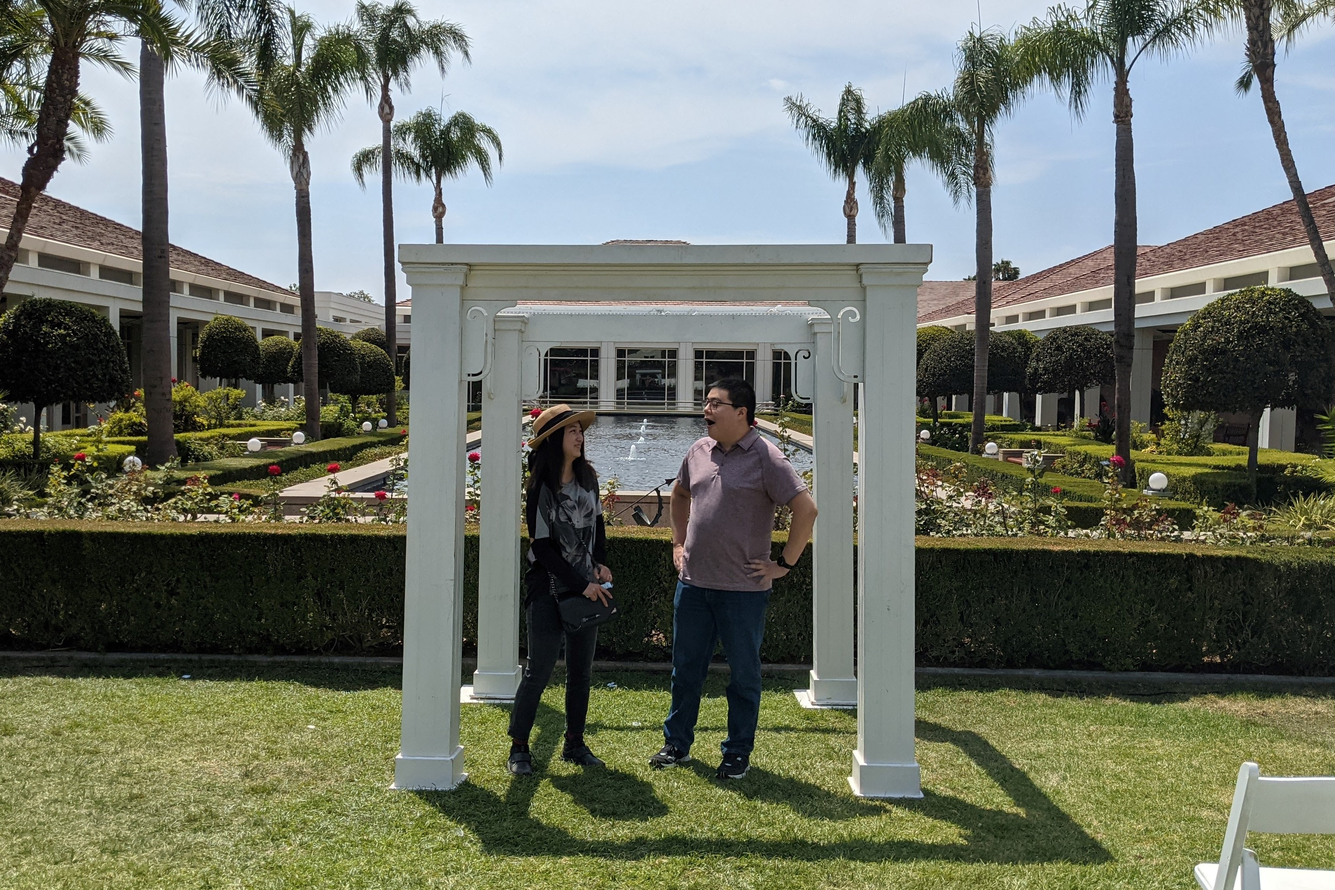
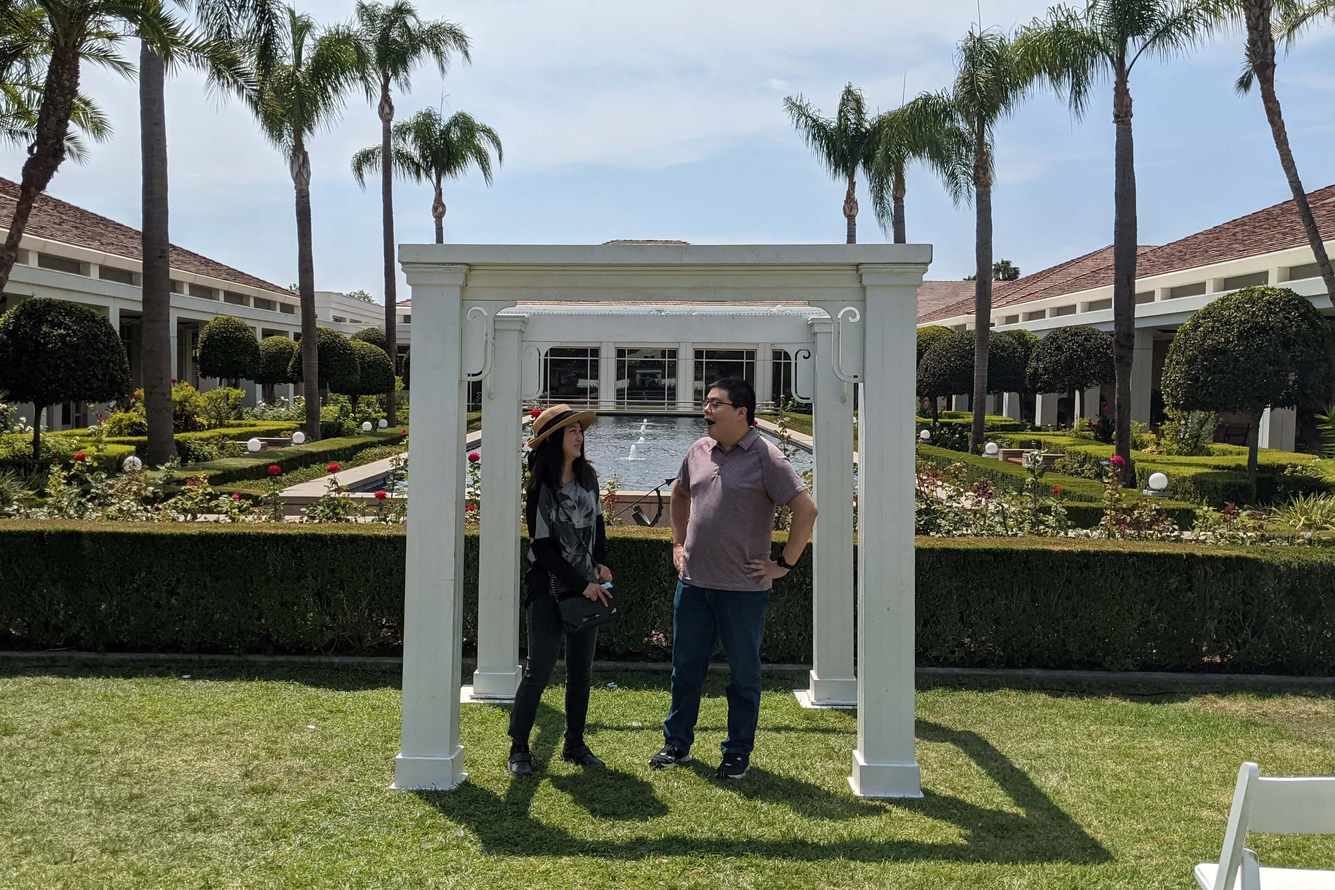
fix parallax, use smaller photo

diff --git a/src/app/schedule/schedule.component.html b/src/app/schedule/schedule.component.html
@@ -3,9 +3,7 @@
     <h1 class='time' i18n>{{'SCHEDULE.TIME' | translate}}</h1>
     <h1 class='place' i18n>{{'SCHEDULE.VENUE' | translate}}</h1>
     <h1 class='place' i18n>{{'SCHEDULE.ADDRESS' | translate}}</h1>
-    <h1 class='place' i18n>{{'SCHEDULE.CITY' | translate}}</h1>
-    <h1 class='place' i18n>{{'SCHEDULE.STATE' | translate}}</h1>
-    <h1 class='place' i18n>{{'SCHEDULE.ZIP' | translate}}</h1>
+    <h1 class='place' i18n>{{'SCHEDULE.CITY' | translate}} | {{'SCHEDULE.STATE' | translate}} | {{'SCHEDULE.ZIP' | translate}}</h1>
     <count-down [theDate]="date"></count-down>
     <div class='schedule-botton-padding'></div>
 </div>

diff --git a/src/app/home/home.component.css b/src/app/home/home.component.css
@@ -12,7 +12,15 @@ img {
 
 .parallax {
     /* The image used */
-    background-image: url("./../../assets/0N4A7715-Edit.png");
+    background-image: url("./../../assets/0N4A7715-Edit.jpg");
+    /* Set a specific height */
+    min-height: 100vh; 
+
+    /* Create the parallax scrolling effect */
+    background-attachment: fixed;
+    background-position: center;
+    background-repeat: no-repeat;
+    background-size: cover;
   }
 
 .sticky {
@@ -28,6 +36,7 @@ img {
     background-repeat: no-repeat;
     background-size: cover;
     top: 0;
+    bottom: 0;
     z-index: 0;
 }
 

diff --git a/src/app/home/home.component.html b/src/app/home/home.component.html
@@ -8,5 +8,5 @@
     <div class="header-name center" [@pound]="pounds" (@pound.done)="pounds = !pounds">♥</div>
      <div class="header-name right" [@rightEnterMobile]="isInview('right')">Ke</div>
 </div>
-<div class="parallax sticky"></div>
+<div class="parallax"></div>
 <div class="section"></div>
